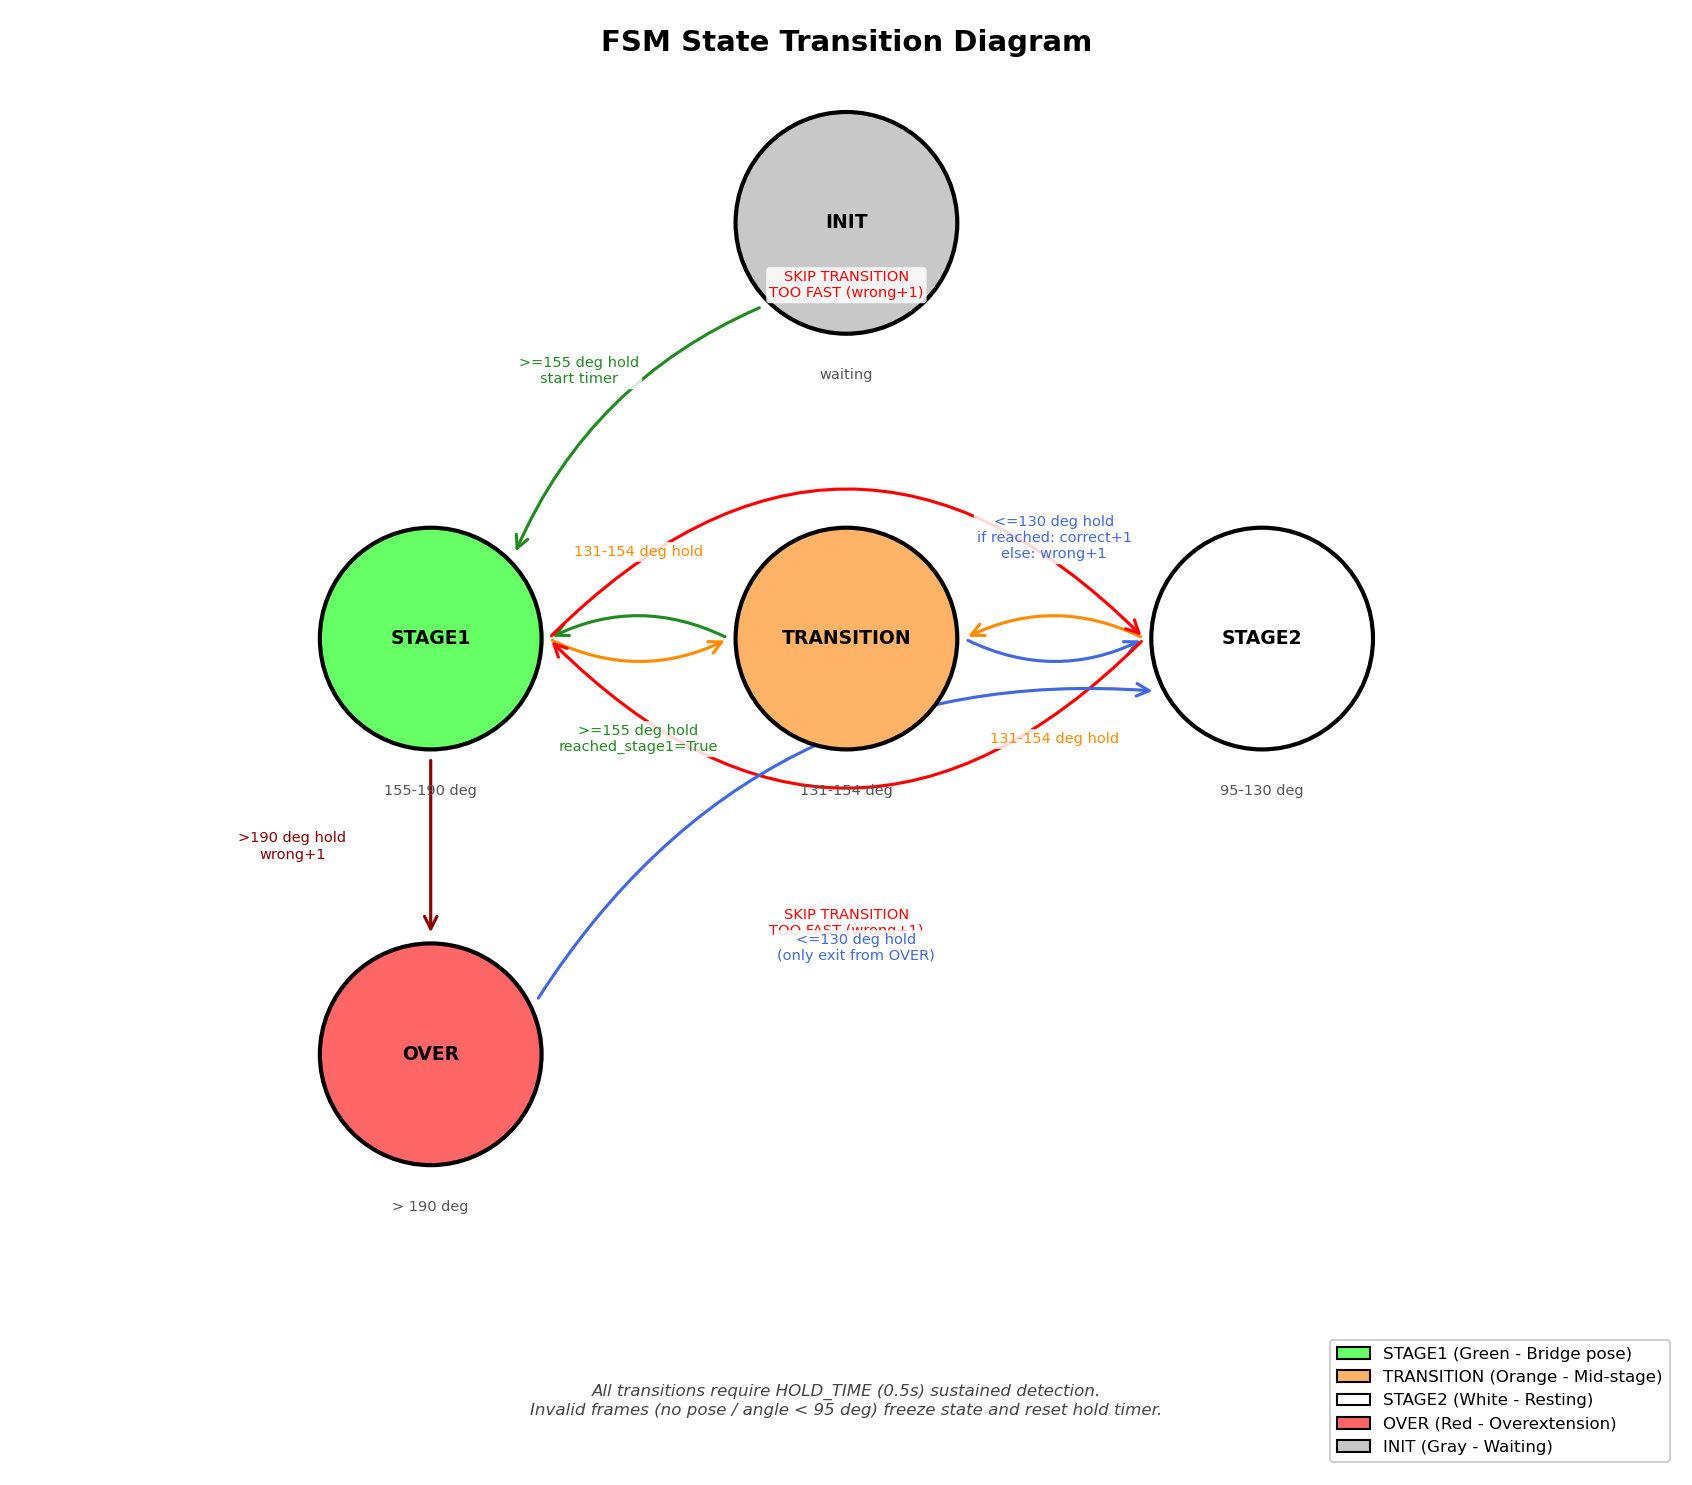
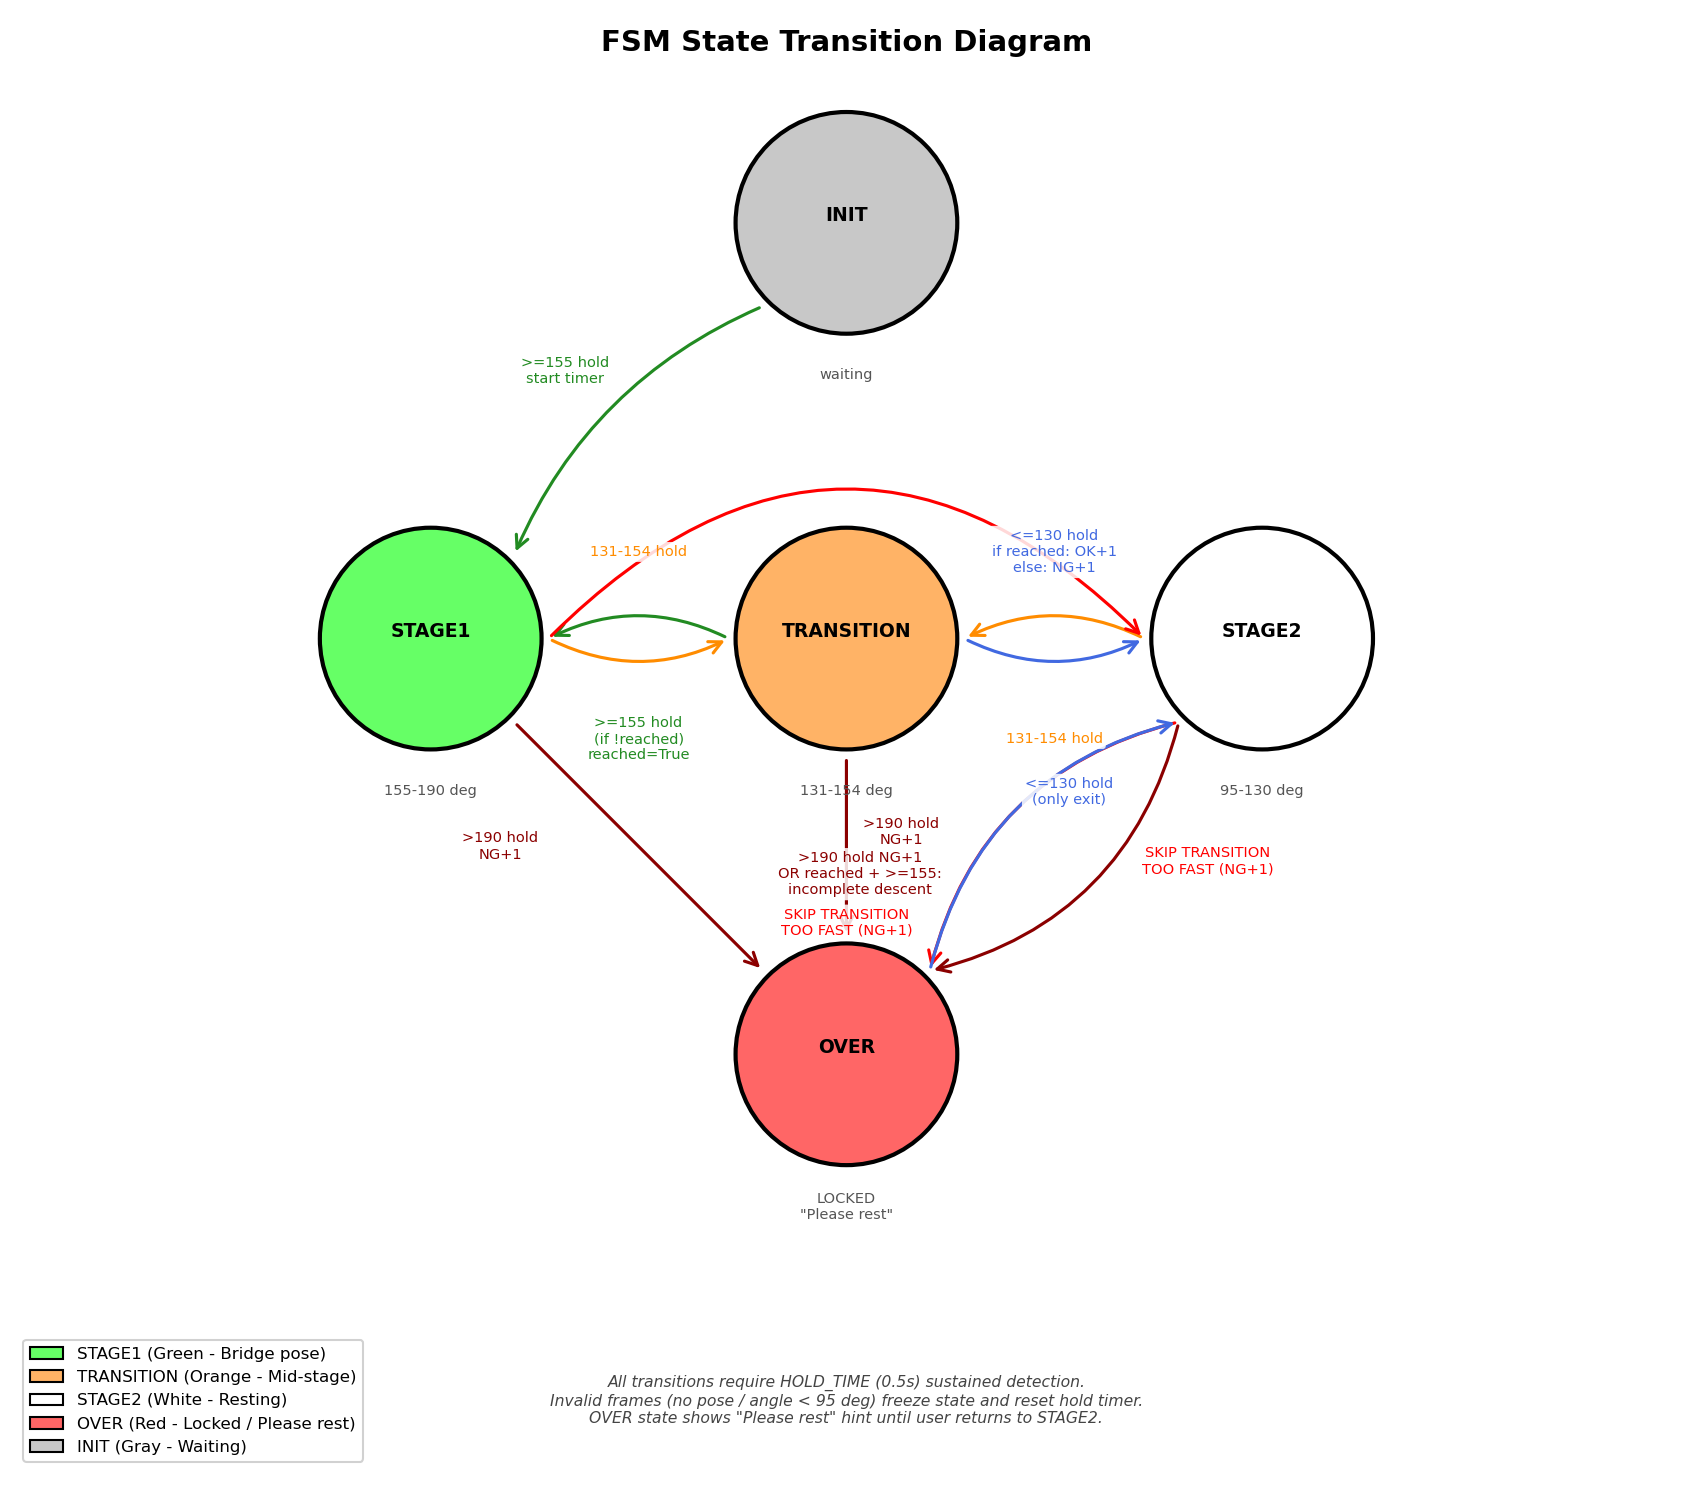
update report: incomplete descent, OVER from all states, Please rest hint
- Add 5th error type: incomplete descent (STAGE1→TRANSITION→STAGE1)
  locks into OVER when reached_stage1=True
- TRANSITION→OVER and STAGE2→OVER for overextension from any state
- STAGE2→STAGE1 TOO FAST now locks into OVER (not STAGE1)
- Document "Please rest" recovery hint on info panel during OVER state
- Regenerate FSM diagram with all new transition paths

diff --git a/report/report.md b/report/report.md
@@ -14,7 +14,7 @@
 
 - 即時偵測橋式動作：透過攝影機擷取畫面，利用姿態辨識模型標記人體關鍵點，計算關節角度以判斷橋式動作階段。
 
-- 自動計數與計時：以五狀態有限狀態機（INIT、STAGE1、TRANSITION、STAGE2、OVER）管理動作階段轉換，當使用者完成一次完整的「抬臀→過渡→放下」循環即自動累計正確次數；系統可辨識四種錯誤：動作不完整（未達 STAGE1 即放下）、動作過快（跳過 TRANSITION 階段）、以及過度伸展（臀部抬過高），各自累計錯誤次數。同時支援使用者自訂訓練時間。
+- 自動計數與計時：以五狀態有限狀態機（INIT、STAGE1、TRANSITION、STAGE2、OVER）管理動作階段轉換，當使用者完成一次完整的「抬臀→過渡→放下」循環即自動累計正確次數；系統可辨識五種錯誤：動作不完整（未達 STAGE1 即放下）、下行不完整（未回到 STAGE2 即再次抬起）、動作過快（跳過 TRANSITION 階段）、以及過度伸展（臀部抬過高），各自累計錯誤次數。同時支援使用者自訂訓練時間。
 
 - 音效回饋：動作完成時播放正確音效，動作不合格時播放錯誤音效，讓使用者在運動中無需注視螢幕也能即時得知動作是否正確。動作過快時畫面另顯示「TOO FAST」紅色警告文字。
 
@@ -54,7 +54,7 @@
 
 ### 1.3.4 錯誤動作判定機制
 
-系統可辨識以下四種錯誤情境，每種皆會使 `wrong_count` 加 1 並播放 `incorrect.mp3` 音效：
+系統可辨識以下五種錯誤情境，每種皆會使 `wrong_count` 加 1 並播放 `incorrect.mp3` 音效：
 
 **（一）動作不完整——未達 STAGE1 即放下**
 
@@ -62,23 +62,31 @@
 
 判定路徑：`STAGE2 → TRANSITION → STAGE2`（未經過 STAGE1）
 
-**（二）動作過快——跳過 TRANSITION（下行方向）**
+**（二）下行不完整——未回到 STAGE2 即再次抬起**
+
+使用者完成一次橋式後（STAGE1），臀部僅下降至 TRANSITION 區間（131°–154°）便再次抬起回到 STAGE1，未完全放下至 STAGE2（≤130°）。系統檢測到 TRANSITION → STAGE1 轉換時 `reached_stage1 = True`（代表之前已經到過 STAGE1），判定為不完整的下行動作，狀態鎖入 OVER。資訊面板顯示「Please rest」提示使用者將臀部完全放下。
+
+判定路徑：`STAGE1 → TRANSITION → STAGE1`（`reached_stage1 = True`，未回到 STAGE2）
+
+**（三）動作過快——跳過 TRANSITION（下行方向）**
 
 使用者在 STAGE1 後急速放下臀部，角度從 ≥155° 直接跌落至 ≤130°，跳過了 131°–154° 的 TRANSITION 區間。系統偵測到 STAGE1 → STAGE2 的直接轉換（未經過 TRANSITION），判定為「TOO FAST」錯誤。資訊面板同時閃爍紅色「TOO FAST」文字 2 秒。
 
 判定路徑：`STAGE1 → STAGE2`（跳過 TRANSITION）
 
-**（三）動作過快——跳過 TRANSITION（上行方向）**
+**（四）動作過快——跳過 TRANSITION（上行方向）**
 
-使用者在 STAGE2 後急速抬起臀部，角度從 ≤130° 直接躍升至 ≥155°，跳過了 TRANSITION 區間。系統偵測到 STAGE2 → STAGE1 的直接轉換（未經過 TRANSITION），判定為「TOO FAST」錯誤。資訊面板閃爍紅色「TOO FAST」文字 2 秒。
+使用者在 STAGE2 後急速抬起臀部，角度從 ≤130° 直接躍升至 ≥155°，跳過了 TRANSITION 區間。系統偵測到 STAGE2 → STAGE1 的直接轉換（未經過 TRANSITION），判定為「TOO FAST」錯誤，狀態鎖入 OVER（而非 STAGE1），資訊面板閃爍紅色「TOO FAST」文字 2 秒並顯示「Please rest」。使用者必須完全放下臀部至 STAGE2 方可繼續。
 
-判定路徑：`STAGE2 → STAGE1`（跳過 TRANSITION）
+判定路徑：`STAGE2 → STAGE1`（跳過 TRANSITION）→ 鎖入 OVER
 
-**（四）過度伸展（Overextension）**
+**（五）過度伸展（Overextension）**
 
-使用者在 STAGE1 時臀部抬得過高，導致髖部高於膝蓋與肩膀的連線，角度經有號角度計算超過 STAGE1_MAX（預設 190°）。系統偵測到過度伸展，狀態轉入 OVER（紅色），`wrong_count` 加 1。OVER 狀態為鎖定狀態——使用者必須將臀部完全放下回到 STAGE2（角度 ≤130° 且持續 HOLD_TIME 秒）方可解除鎖定，重新開始下一次動作循環。
+使用者臀部抬得過高，導致髖部高於膝蓋與肩膀的連線，角度經有號角度計算超過 STAGE1_MAX（預設 190°）。過度伸展可從 STAGE1、TRANSITION 或 STAGE2 任一狀態觸發——無論使用者當前處於何種階段，只要角度持續超過 190° 達 HOLD_TIME 秒，狀態即轉入 OVER（紅色），`wrong_count` 加 1。OVER 狀態為鎖定狀態——使用者必須將臀部完全放下回到 STAGE2（角度 ≤130° 且持續 HOLD_TIME 秒）方可解除鎖定，重新開始下一次動作循環。資訊面板持續顯示「Please rest」提示。
 
-判定路徑：`STAGE1 → OVER`（角度 > 190°）
+判定路徑：`STAGE1 / TRANSITION / STAGE2 → OVER`（角度 > 190°）
+
+**所有錯誤皆鎖入 OVER 狀態**：上述五種錯誤情境中，除了（一）動作不完整以外，其餘四種皆會使 FSM 進入 OVER 鎖定狀態。OVER 狀態下資訊面板持續以橙黃色文字顯示「Please rest」，提醒使用者將臀部完全放下至 STAGE2 後方可繼續訓練。此設計確保使用者在每次錯誤後必須回到完全休息位置，重新調整姿勢再開始下一次動作。
 
 ### 1.3.5 有號角度與朝向修正機制
 
@@ -511,20 +519,28 @@ class State(Enum):
 
 **STAGE1 → OVER**（過度伸展）：當角度偵測結果為 OVER 且持續達到 HOLD_TIME 秒。轉換時 `wrong_count += 1`，播放 `SFX_INCORRECT.play()`，重設 `reached_stage1 = False`。
 
-**TRANSITION → STAGE1**（上行確認）：當角度偵測結果為 STAGE1 且持續達到 HOLD_TIME 秒。轉換時設定 `reached_stage1 = True`。
+**TRANSITION → STAGE1**（條件分支）：當角度偵測結果為 STAGE1 且持續達到 HOLD_TIME 秒。轉換行為依 `reached_stage1` 的值分為兩種情況：
+- 若 `reached_stage1 = False`（使用者從 STAGE2 上行經過 TRANSITION 到達 STAGE1，正常的上行路徑）：設定 `reached_stage1 = True`，狀態轉為 STAGE1。
+- 若 `reached_stage1 = True`（使用者從 STAGE1 下行至 TRANSITION 後又回到 STAGE1，代表臀部未完全放下即再次抬起）：判定為「下行不完整」錯誤，`wrong_count += 1`，播放 `SFX_INCORRECT.play()`，重設 `reached_stage1 = False`，狀態鎖入 OVER。
 
 **TRANSITION → STAGE2**（下行完成）：當角度偵測結果為 STAGE2 且持續達到 HOLD_TIME 秒。轉換時檢查 `reached_stage1`：
 - 若為 True（本次循環曾到達 STAGE1）：`bridge_count += 1`，播放 `SFX_CORRECT.play()`。此為正確的橋式動作。
 - 若為 False（本次循環未曾到達 STAGE1，即使用者臀部未充分抬起即放下）：`wrong_count += 1`，播放 `SFX_INCORRECT.play()`。此為不完整的動作。
 - 兩種情況皆重設 `reached_stage1 = False`。
 
+**TRANSITION → OVER**（過度伸展）：當角度偵測結果為 OVER 且持續達到 HOLD_TIME 秒。轉換時 `wrong_count += 1`，播放 `SFX_INCORRECT.play()`，重設 `reached_stage1 = False`。過度伸展可從 TRANSITION 狀態直接觸發。
+
 **STAGE2 → TRANSITION**（正常上行）：當角度偵測結果為 TRANSITION 且持續達到 HOLD_TIME 秒。開始新的動作循環。
 
-**STAGE2 → STAGE1**（跳過 TRANSITION，TOO FAST）：當角度偵測結果直接為 STAGE1（跳過 TRANSITION）且持續達到 HOLD_TIME 秒。轉換時 `wrong_count += 1`，播放 `SFX_INCORRECT.play()`，設定 `last_event = "TOO FAST"`，同時設定 `reached_stage1 = True`（因為確實到達了 STAGE1）。
+**STAGE2 → OVER**（跳過 TRANSITION，TOO FAST，鎖入 OVER）：當角度偵測結果直接為 STAGE1（跳過 TRANSITION）且持續達到 HOLD_TIME 秒。轉換時狀態直接進入 OVER（而非 STAGE1），`wrong_count += 1`，播放 `SFX_INCORRECT.play()`，設定 `last_event = "TOO FAST"`，重設 `reached_stage1 = False`。此設計確保動作過快的使用者必須先回到完全休息位置再繼續。
 
-**OVER → STAGE2**（唯一出口）：OVER 為鎖定狀態，僅當角度偵測結果為 STAGE2 且持續達到 HOLD_TIME 秒時方可離開。轉換時重設 `reached_stage1 = False`。OVER 狀態不接受任何其他轉換目標——即使角度回到 STAGE1 或 TRANSITION 範圍也不會觸發轉換，使用者必須將臀部完全放下。
+**STAGE2 → OVER**（過度伸展）：當角度偵測結果為 OVER 且持續達到 HOLD_TIME 秒。即使使用者剛從休息位置急速過度伸展，系統也能正確偵測並鎖入 OVER。轉換時 `wrong_count += 1`，播放 `SFX_INCORRECT.play()`，重設 `reached_stage1 = False`。
 
-**TRANSITION 為強制經過的階段**：系統要求所有上行（STAGE2→STAGE1）與下行（STAGE1→STAGE2）路徑皆必須經過 TRANSITION 階段。若角度變化過快跳過了 TRANSITION，系統判定為「TOO FAST」錯誤。此設計的目的是確保使用者以適當的速度進行動作，避免靠慣性甩動完成橋式。
+**OVER → STAGE2**（唯一出口）：OVER 為鎖定狀態，僅當角度偵測結果為 STAGE2 且持續達到 HOLD_TIME 秒時方可離開。轉換時重設 `reached_stage1 = False`。OVER 狀態不接受任何其他轉換目標——即使角度回到 STAGE1 或 TRANSITION 範圍也不會觸發轉換，使用者必須將臀部完全放下。在 OVER 狀態期間，資訊面板持續以橙黃色文字顯示「Please rest」提示。
+
+**OVER 狀態的統一鎖定機制**：所有錯誤情境（TOO FAST 上行、TOO FAST 下行、下行不完整、過度伸展）皆會將 FSM 鎖入 OVER 狀態，唯一例外為「動作不完整」（TRANSITION → STAGE2 且 `reached_stage1 = False`），此錯誤直接進入 STAGE2 而非 OVER。OVER 狀態的「Please rest」提示為統一的復原提示，不分錯誤類型。
+
+**TRANSITION 為強制經過的階段**：系統要求所有上行（STAGE2→STAGE1）與下行（STAGE1→STAGE2）路徑皆必須經過 TRANSITION 階段。若角度變化過快跳過了 TRANSITION，系統判定為「TOO FAST」錯誤並鎖入 OVER。此設計的目的是確保使用者以適當的速度進行動作，避免靠慣性甩動完成橋式。
 
 **防抖機制（Hold Time）的詳細運作方式**：
 
@@ -996,6 +1012,8 @@ g. **FSM 轉換**：若 `finished` 為 False，根據當前 `state` 與 `detecte
 g2. **顏色決定**：若 `detected` 為 None，使用 `INVALID_COLOR`（灰色）；否則使用 `STATE_COLOR[state]`。
 
 g3. **TOO FAST 顯示**：若 `last_event` 不為 None 且距離 `last_event_time` 未超過 2 秒，在資訊面板中央以紅色繪製事件文字；超過 2 秒後自動清除 `last_event = None`。
+
+g4. **Recovery 提示**：若當前 `state == State.OVER`，在資訊面板中央以橙黃色 (0, 200, 255) 繪製「Please rest」文字（0.55 倍字體，粗體），提示使用者將臀部完全放下至 STAGE2 才能繼續訓練。此提示在 OVER 狀態期間持續顯示，不受 `last_event` 計時器影響。
 
 h. **骨架繪製**：若有有效的關鍵點，在影像上繪製：
    - 四個關節圓點（半徑 10px，填滿，顏色隨狀態變化）